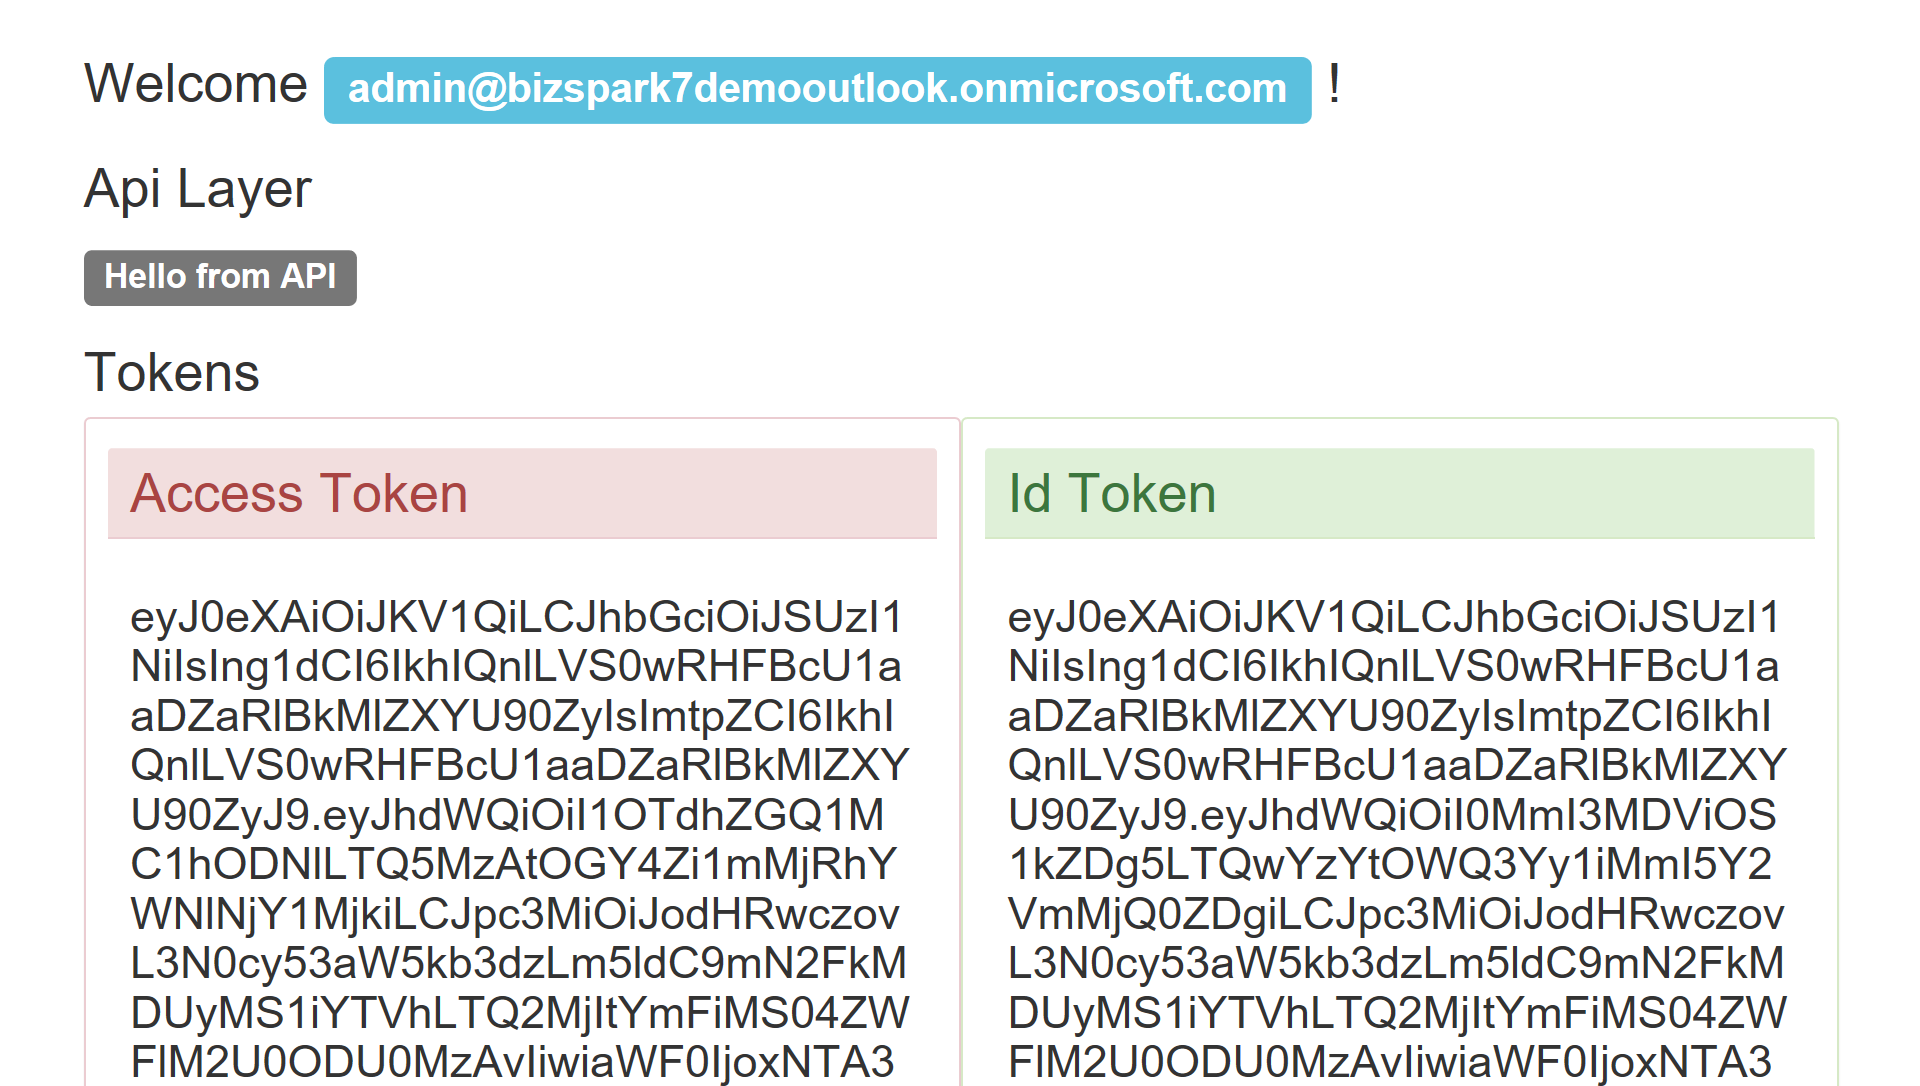
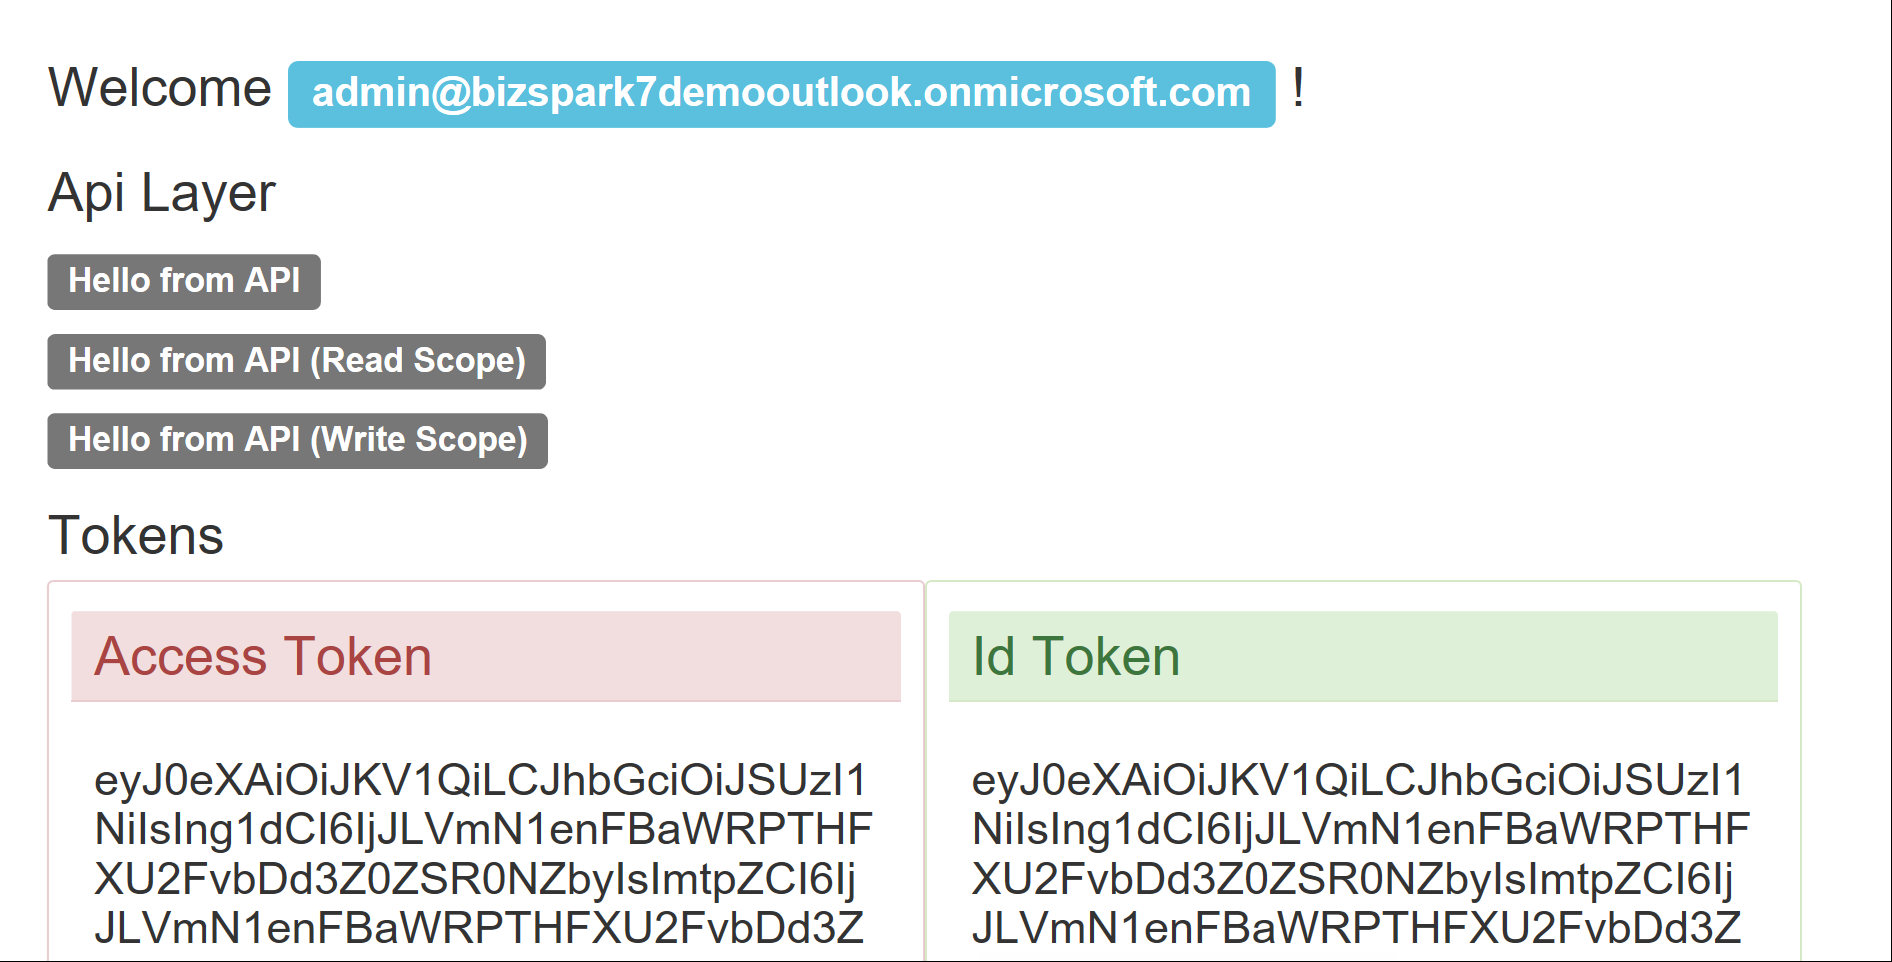
readme

diff --git a/readme.md b/readme.md
@@ -1,7 +1,7 @@
-# Azure AD Secured Api access (Asp.Net Core 2.0)
+# Azure AD Secured Api access (Asp.Net Core 2.0) - Scopes - V2.0 endpoint
 
 Small example of a two tiers application with a FrontEnd application that calls a backend Api application. Both coded with **Asp.Net Core 2.0** and secured with the same Azure Ad tenant (directory).
-This demonstrate how to retrieve an access token from AzureAd, using the implicit flow (**OpenIdConnect**):
+This demonstrate how to retrieve an access token from AzureAd, using the implicit flow (**OpenIdConnect**) and custom scopes:
 
 ![scenario](images/simple-AAD.png)
 
@@ -10,18 +10,17 @@ For more detailed information read the following [post](https://blogs.msdn.micro
 
 
 ## Setup
-Using the Azure portal you need to:
+Using the new [Application registration portal](https://apps.dev.microsoft.com/portal/application) you need to:
 + create two Azure Applications in your tenant
-    + FrontEnd
-        + Reply Url: [http://localhost:10001/signin-oidc](#)
-        + App ID Uri: [http://AAD.2tiers.Web"](#)
-    + Api
+    + FrontEnd (Web platform)
+        + Reply Url: [http://localhost:10001/signin-oidc](#)    
+        + Allow Implict Flow
+    + Api (Api platform)
         + Reply Url: [http://localhost:10000](#)
-        + App ID Uri: [http://AAD.2tiers.Api](#)
-+ allows the FrontEnd application to access Api (permission tab, add)
-+ Edit the manifest of the FrontEnd application and enable the implicit flow (**"oauth2AllowImplicitFlow"**: **true**).
+        + App ID Uri: [api://aad.2tiers.api](#)
+        + Add two custom scopes: **aad.scopeA** and **aad.scopeB**
 
-To automated these tasks you can use the powershell script **Create2TiersAADDemo.ps1**.
++ allows the FrontEnd application to access Api scopes (**Pre-authorized application** section, select only the **access_as_user** scope)
 
 Last, you must update the **appsettings.json** file with your settings:
 
